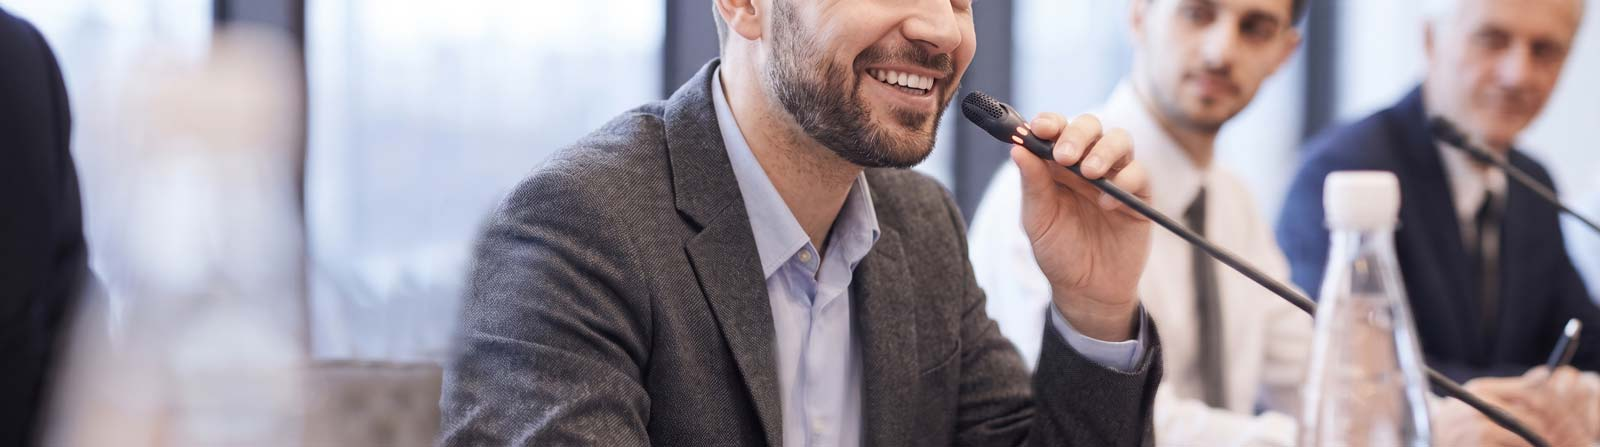
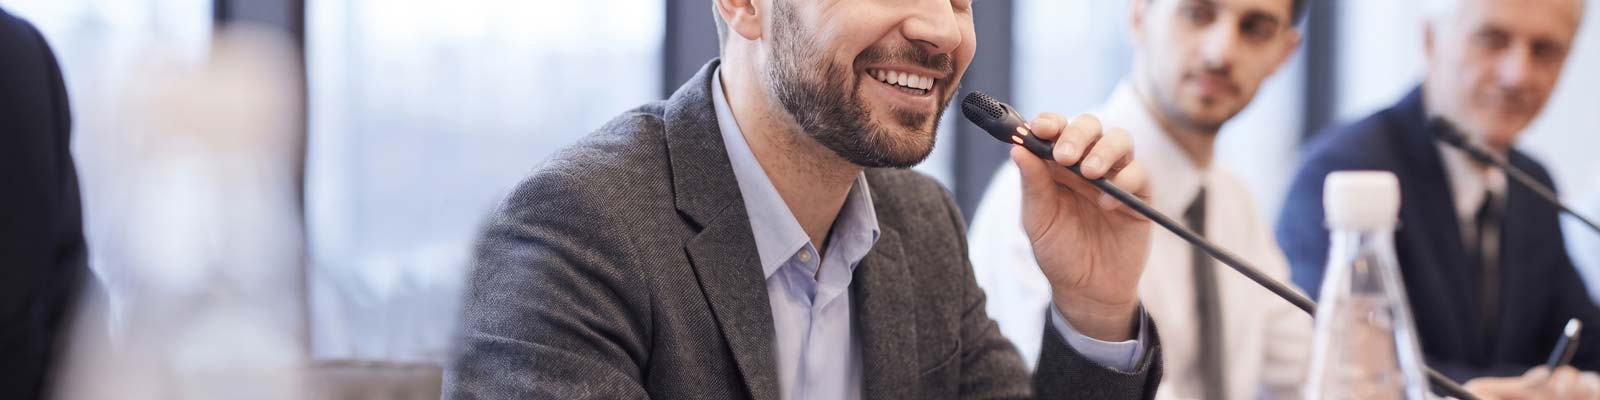
update all breadcrumb images

diff --git a/service-details.html b/service-details.html
@@ -162,7 +162,7 @@
 
     <!-- Breadcrumb Section Start -->
     <div class="section-padding breadcrumb"
-        data-bg-image="https://ethemestudio.com/demo/avers/assets/images/breadcrumb/breadcrumb-3.png">
+        data-bg-image="/assets/images/breadcrumb/breadcrumb-1.png">
         <div class="container">
             <div class="row">
                 <div class="col-12 align-items-center text-center">
@@ -289,7 +289,7 @@
 
                         <div class="service-details-widget">
                             <div class="service-details-help wow fadeIn" data-wow-duration="1.5s" data-wow-delay=".1s"
-                                data-bg-image="https://ethemestudio.com/demo/avers/assets/images/service/service-details-help.png">
+                                data-bg-image="/assets/images/breadcrumb/breadcrumb-1.png">
                                 <h4 class="title">Need Help?</h4>
                                 <p class="service-details-help-text mb-0">At Optivex, we specialize in providing
                                     tailored business solutions that help you scale efficiently and stay ahead in

diff --git a/service.html b/service.html
@@ -162,7 +162,7 @@
 
     <!-- Breadcrumb Section Start -->
     <div class="section-padding breadcrumb"
-        data-bg-image="https://ethemestudio.com/demo/avers/assets/images/breadcrumb/breadcrumb-2.png">
+        data-bg-image="/assets/images/breadcrumb/breadcrumb-1.png">
         <div class="container">
             <div class="row">
                 <div class="col-12 align-items-center text-center">
@@ -376,7 +376,7 @@
             <div class="row">
                 <div class="col-lg-5">
                     <div class="system-bg"
-                        data-bg-image="https://ethemestudio.com/demo/avers/assets/images/system/system-bg1.png">
+                        data-bg-image="/assets/images/breadcrumb/breadcrumb-1.png">
                         <!-- Single System Start -->
                         <div class="system-single wow fadeIn" data-wow-duration="1.2s" data-wow-delay=".1s">
                             <!-- System Icon Start -->

diff --git a/about.html b/about.html
@@ -166,7 +166,7 @@
 
     <!-- Breadcrumb Section Start -->
     <div class="section-padding breadcrumb"
-        data-bg-image="https://ethemestudio.com/demo/avers/assets/images/breadcrumb/breadcrumb-1.png">
+        data-bg-image="/assets/images/breadcrumb/breadcrumb-1.png">
         <div class="container">
             <div class="row">
                 <div class="col-12 align-items-center text-center">

diff --git a/blog-details.html b/blog-details.html
@@ -162,7 +162,7 @@
 
     <!-- Breadcrumb Section Start -->
     <div class="section-padding breadcrumb"
-        data-bg-image="https://ethemestudio.com/demo/avers/assets/images/breadcrumb/breadcrumb-6.png">
+        data-bg-image="/assets/images/breadcrumb/breadcrumb-1.png">
         <div class="container">
             <div class="row">
                 <div class="col-12 align-items-center text-center">

diff --git a/blog-standard.html b/blog-standard.html
@@ -162,7 +162,7 @@
 
     <!-- Breadcrumb Section Start -->
     <div class="section-padding breadcrumb"
-        data-bg-image="https://ethemestudio.com/demo/avers/assets/images/breadcrumb/breadcrumb-4.png">
+        data-bg-image="/assets/images/breadcrumb/breadcrumb-1.png">
         <div class="container">
             <div class="row">
                 <div class="col-12 align-items-center text-center">

diff --git a/contact.html b/contact.html
@@ -162,7 +162,7 @@
 
     <!-- Breadcrumb Section Start -->
     <div class="section-padding breadcrumb"
-        data-bg-image="https://ethemestudio.com/demo/avers/assets/images/breadcrumb/breadcrumb-1.png">
+        data-bg-image="/assets/images/breadcrumb/breadcrumb-1.png">
         <div class="container">
             <div class="row">
                 <div class="col-12 align-items-center text-center">

diff --git a/project-details.html b/project-details.html
@@ -163,7 +163,7 @@
 
     <!-- Breadcrumb Section Start -->
     <div class="section-padding breadcrumb"
-        data-bg-image="https://ethemestudio.com/demo/avers/assets/images/breadcrumb/breadcrumb-8.png">
+        data-bg-image="/assets/images/breadcrumb/breadcrumb-1.png">
         <div class="container">
             <div class="row">
                 <div class="col-12 align-items-center text-center">

diff --git a/project.html b/project.html
@@ -163,7 +163,7 @@
 
     <!-- Breadcrumb Section Start -->
     <div class="section-padding breadcrumb"
-        data-bg-image="https://ethemestudio.com/demo/avers/assets/images/breadcrumb/breadcrumb-5.png">
+        data-bg-image="/assets/images/breadcrumb/breadcrumb-1.png">
         <div class="container">
             <div class="row">
                 <div class="col-12 align-items-center text-center">

diff --git a/team.html b/team.html
@@ -162,7 +162,7 @@
 
     <!-- Breadcrumb Section Start -->
     <div class="section-padding breadcrumb"
-        data-bg-image="https://ethemestudio.com/demo/avers/assets/images/breadcrumb/breadcrumb-1.png">
+        data-bg-image="/assets/images/breadcrumb/breadcrumb-1.png">
         <div class="container">
             <div class="row">
                 <div class="col-12 align-items-center text-center">
